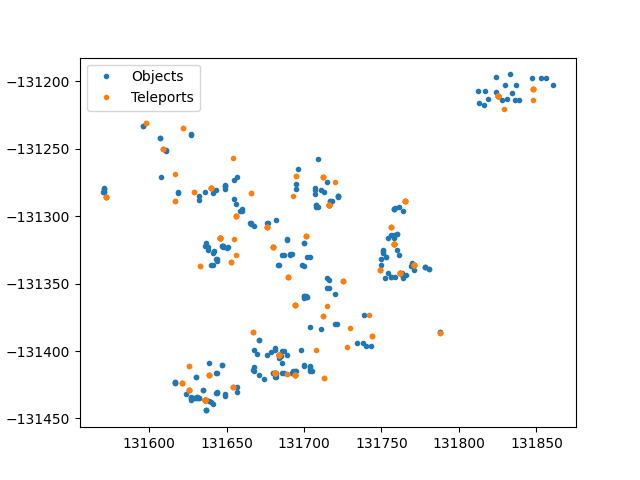
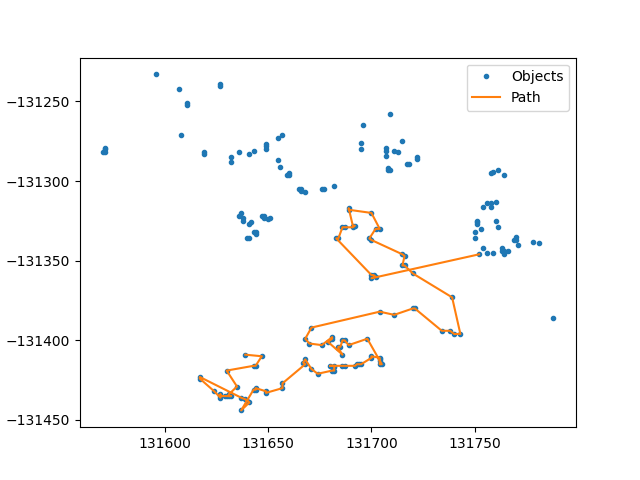
nearest neighbor

diff --git a/strategyNearestNeighbor.py b/strategyNearestNeighbor.py
@@ -1,0 +1,67 @@
+from instances import distanceTuples
+from random import randint
+
+
+def nearestNeighbor(listObjects, numberOfObjects=None):
+    """
+    Returns a list of the objects collected, in order of collection, and a list of booleans, where True means the object was collected
+    """
+
+    if numberOfObjects is None:
+        numberOfObjects = len(listObjects)
+    if numberOfObjects == 0:
+        return [], [False]*len(listObjects)
+
+    collectedObjects = [False]*len(listObjects)
+    path = []
+    count = 0
+
+    # user starts in a random object
+    firstObjectIndex = randint(0, len(listObjects) - 1)
+    collectedObjects[firstObjectIndex] = True
+    path.append(listObjects[firstObjectIndex])
+    count += 1
+
+    while count < numberOfObjects:
+
+        # user finds the nearest object from the last they collected
+        nearestObjectIndex = -1
+        nearestObjectDistance = float("inf")
+        for i in range(len(listObjects)):
+            if not collectedObjects[i]:
+                distance = distanceTuples(path[-1], listObjects[i])
+                if distance < nearestObjectDistance:
+                    nearestObjectIndex = i
+                    nearestObjectDistance = distance
+
+        # user collects it
+        collectedObjects[nearestObjectIndex] = True
+        path.append(listObjects[nearestObjectIndex])
+        count += 1
+
+    return path, collectedObjects
+
+
+
+
+
+
+
+if __name__ == "__main__":
+
+    from instances import getOptimizedInstance
+    listObjects, listTeleports = getOptimizedInstance(["Violetgrass"])
+
+    import matplotlib.pyplot as plt
+
+    multiplier = 0.5
+    from math import floor
+    numberObjects = floor(len(listObjects) * multiplier)
+    path, collectedObjects = nearestNeighbor(listObjects, numberObjects)
+
+    plt.plot([i[0] for i in listObjects], [i[1] for i in listObjects], ".", label="Objects")
+    # plt.plot([i[0] for i in listTeleports], [i[1] for i in listTeleports], ".", label="Teleports")
+    plt.plot([i[0] for i in path], [i[1] for i in path], "-", label="Path")
+    plt.legend()
+    
+    plt.savefig("./aux.png")

diff --git a/instances.py b/instances.py
@@ -1,6 +1,9 @@
 import pandas as pd
 
 df = pd.read_csv("./scrapping/locations.csv")
+df = df.drop_duplicates()
+df.reset_index(inplace=True)
+
 validLabels = df["Name"].unique().tolist()
 
 
@@ -60,7 +63,7 @@ if __name__ == "__main__":
     import matplotlib.pyplot as plt
 
 
-    listObjects, listTeleports = getOptimizedInstance(["Valberry", "Violetgrass"])
+    listObjects, listTeleports = getOptimizedInstance(["Violetgrass"])
 
     plt.plot([i[0] for i in listObjects], [i[1] for i in listObjects], ".", label="Objects")
     plt.plot([i[0] for i in listTeleports], [i[1] for i in listTeleports], ".", label="Teleports")
